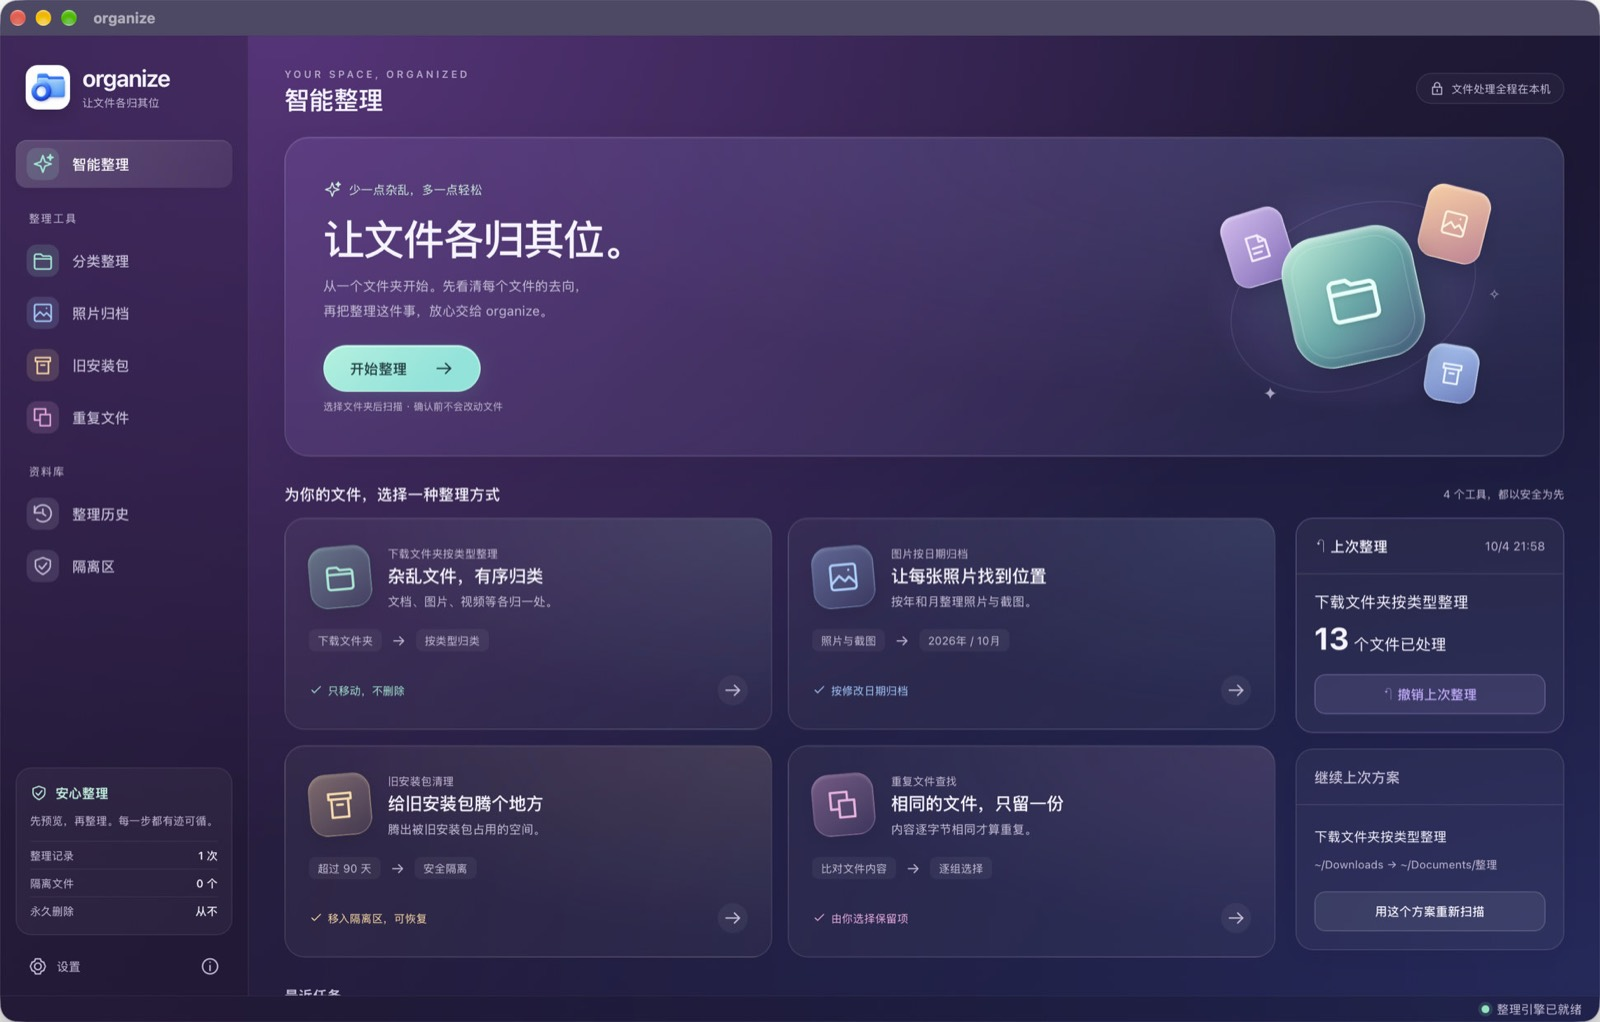
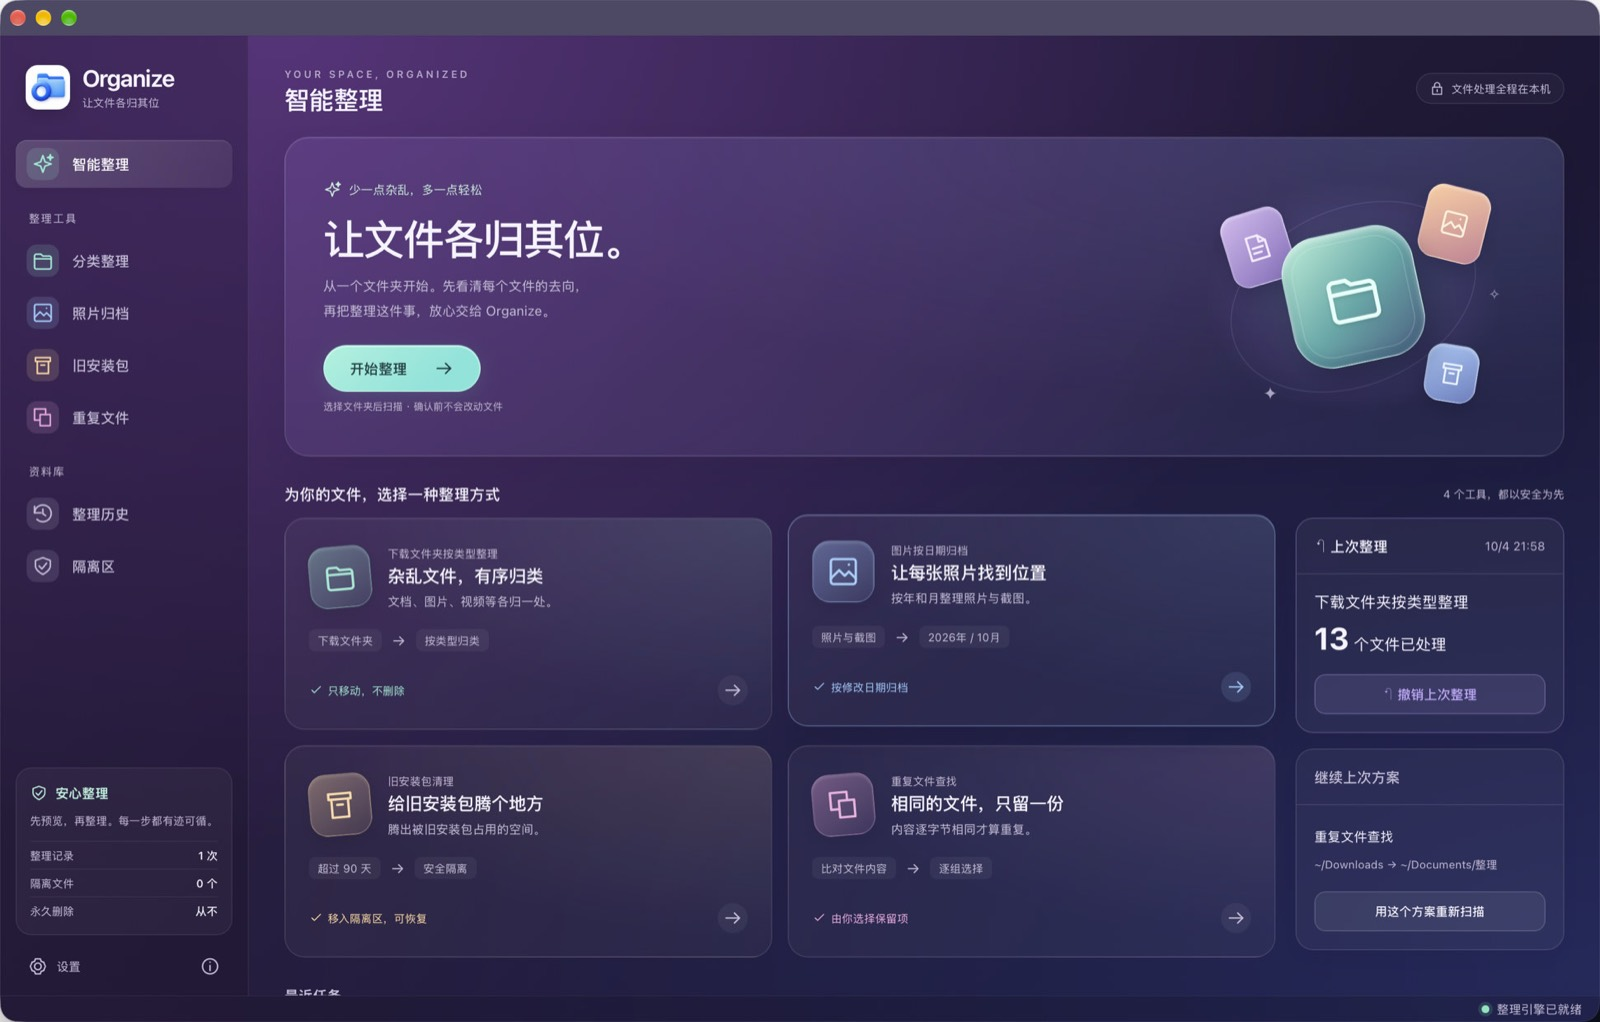
feat:UI

diff --git a/heartwave/styles.css b/heartwave/styles.css
@@ -194,22 +194,24 @@ button:focus-visible {
 
 h1 {
     margin: 0;
-    font-size: 1.7rem;
+    font-size: 17px;
     font-weight: 560;
-    letter-spacing: -0.03em;
-    line-height: 1.2;
+    letter-spacing: -0.01em;
+    line-height: 1.35;
 }
 
 .role {
     margin: 0.15rem 0 0;
     color: var(--muted);
-    font-size: 0.95rem;
+    font-size: 17px;
+    font-weight: 500;
+    line-height: 1.35;
 }
 
 .lede {
     max-width: 38rem;
     margin: 1.35rem 0 0;
-    font-size: 1.05rem;
+    font-size: 16px;
 }
 
 .actions { margin: 1rem 0 0; }
@@ -236,7 +238,7 @@ h1 {
     padding-left: 0.85rem;
     border-left: 2px solid var(--mark-fg);
     color: var(--muted);
-    font-size: 0.94rem;
+    font-size: 16px;
 }
 
 .phones {
@@ -265,12 +267,12 @@ h1 {
 .phones figcaption {
     margin-top: 0.65rem;
     color: var(--muted);
-    font-size: 0.92rem;
+    font-size: 16px;
 }
 
 h2 {
     margin: 3rem 0 0;
-    font-size: 15px;
+    font-size: 16px;
     font-weight: 560;
 }
 

diff --git a/organize/styles.css b/organize/styles.css
@@ -199,21 +199,23 @@ button:focus-visible {
 
 h1 {
     margin: 0;
-    font-size: 1.7rem;
+    font-size: 17px;
     font-weight: 560;
-    letter-spacing: -0.03em;
-    line-height: 1.2;
+    letter-spacing: -0.01em;
+    line-height: 1.35;
 }
 
 .role {
     margin: 0.15rem 0 0;
     color: var(--muted);
-    font-size: 0.95rem;
+    font-size: 17px;
+    font-weight: 500;
+    line-height: 1.35;
 }
 
 .lede {
     margin: 1.35rem 0 0;
-    font-size: 1.05rem;
+    font-size: 16px;
 }
 
 .actions { margin: 1rem 0 0; }
@@ -276,12 +278,14 @@ h1 {
     max-width: 40rem;
     margin-top: 0.7rem;
     color: var(--muted);
+    font-size: 16px;
 }
 
 .window figcaption strong {
     display: block;
     margin-bottom: 0.15rem;
     color: var(--fg);
+    font-size: 16px;
     font-weight: 560;
 }
 
@@ -292,7 +296,7 @@ h1 {
 
 .cli h2 {
     margin: 0 0 0.7rem;
-    font-size: 15px;
+    font-size: 16px;
     font-weight: 560;
 }
 
